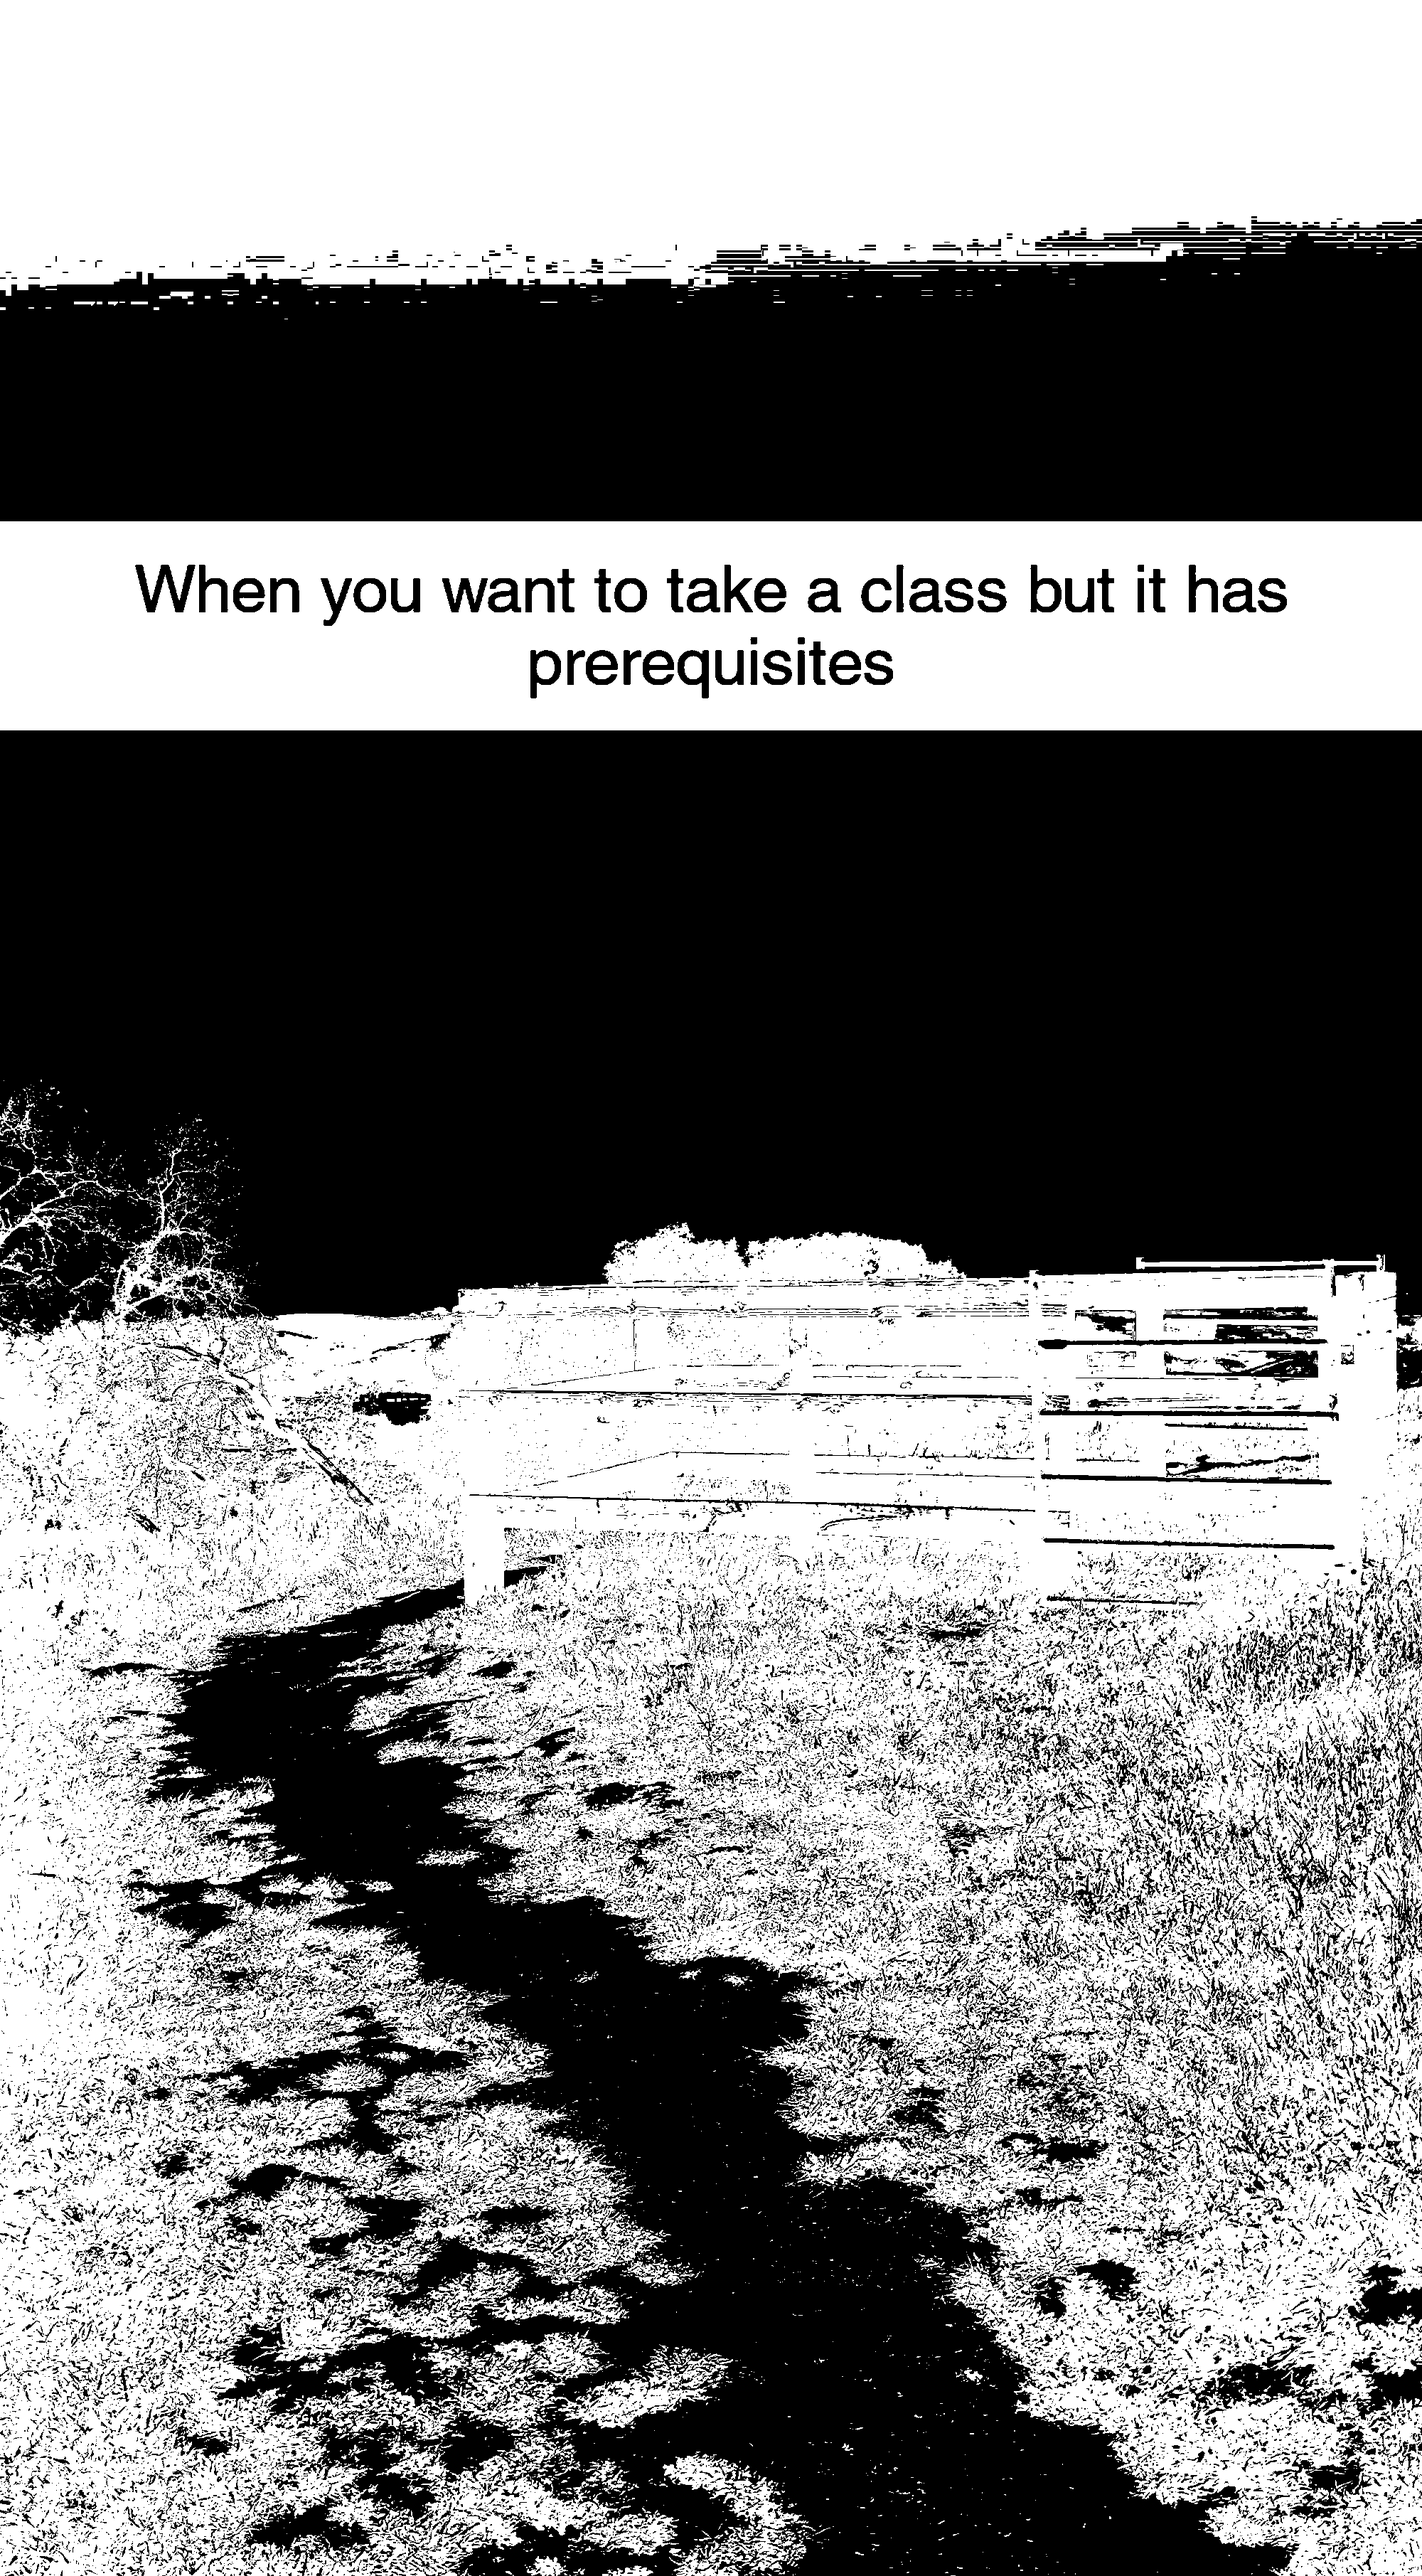
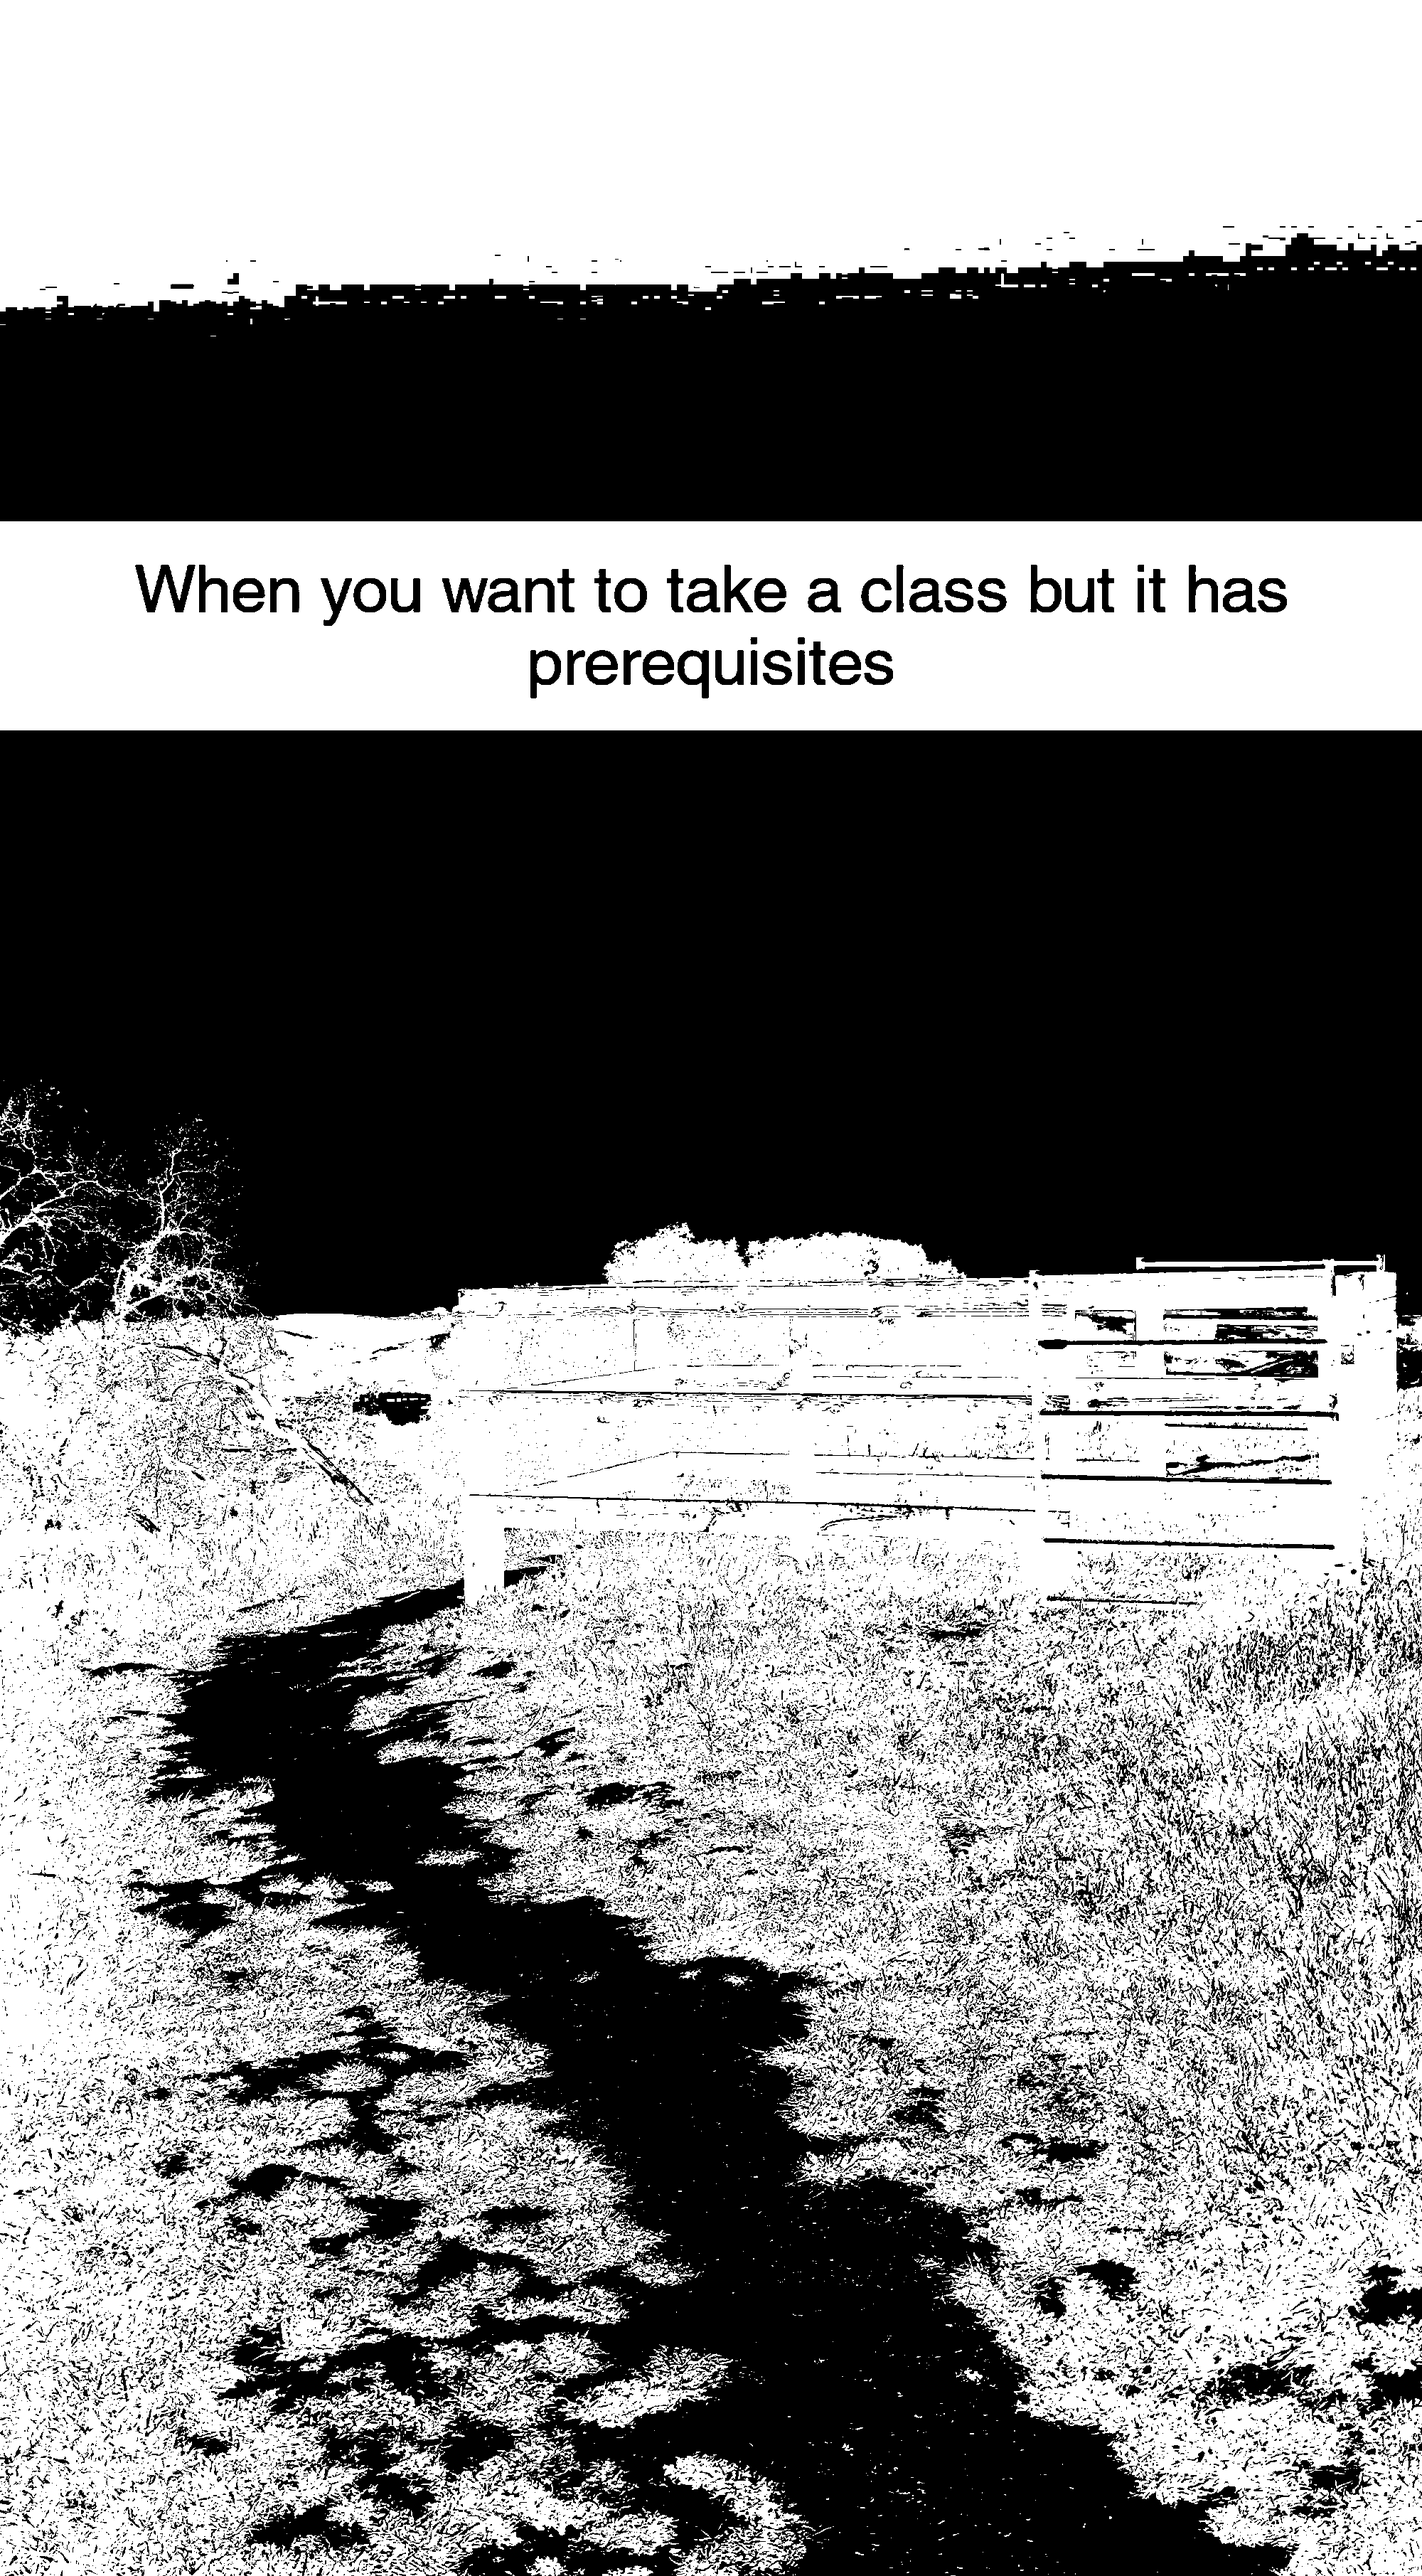
probably makes more sense to swap later

Changed region(s): [[0.806, 0.0624, 1.0, 0.1248], [0.496, 0.0936, 0.775, 0.1248], [0.0, 0.0936, 0.217, 0.1248]]

diff --git a/black-white-png.py b/black-white-png.py
@@ -9,13 +9,10 @@ def convertRow(pixelSize, colorSize, inRow):
     for b in range(0, len(inRow)):
         color = float(inRow[b])
 
-        if(len(sys.argv) > 4):
-            color = 255 - float(inRow[b])
-
         if(b % pixelSize == colorSize - 1):
             brightness += color
 
-            if(int(brightness) < int(sys.argv[1]) * colorSize):
+            if((int(brightness) < int(sys.argv[1]) * colorSize) == (len(sys.argv) == 4)):
                 outRow = outRow + [0]
             else:
                 outRow = outRow + [255]
